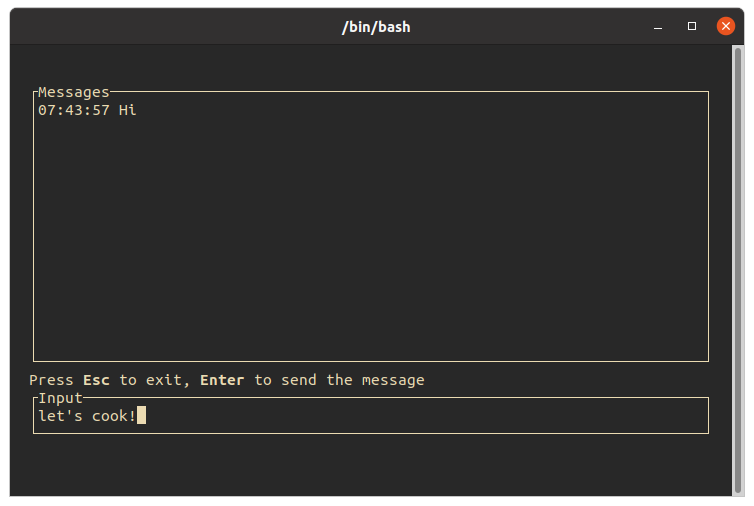
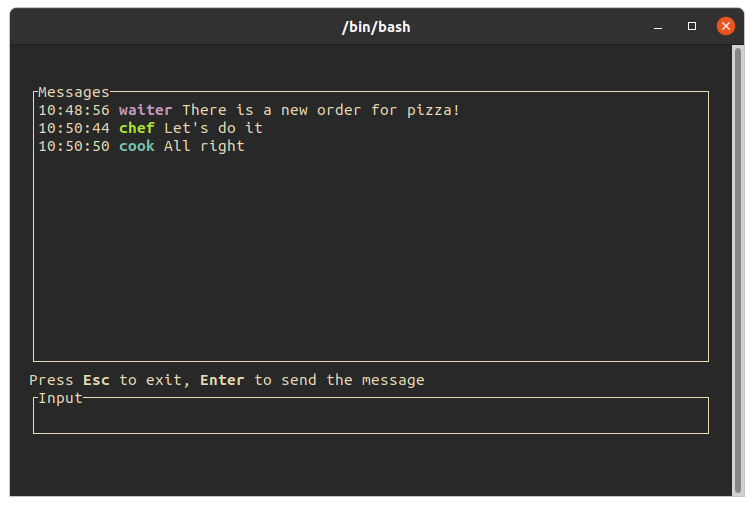
Add user info to message

Changed region(s): [[0.0305, 0.2075, 0.6101, 0.2964], [0.061, 0.8004, 0.2135, 0.83]]

diff --git a/src/app/terminal_events_handler.rs b/src/app/terminal_events_handler.rs
@@ -1,7 +1,10 @@
 use std::sync::{Arc, Mutex};
 
 use crate::{
-    events_publisher::EventsPublisher, network::NetworkEvent, renderer::State, TerminalEvent,
+    events_publisher::EventsPublisher,
+    network::NetworkEvent,
+    renderer::{Message, State},
+    TerminalEvent,
 };
 
 pub struct TerminalEventsHandler<EP>
@@ -35,8 +38,12 @@ where
             TerminalEvent::Accept => {
                 let message = state.input_message.drain(..).collect::<String>();
                 if !message.is_empty() {
+                    let message =
+                        serde_json::to_vec(&Message::new(state.current_user.clone(), message))
+                            .unwrap();
+
                     self.events_publisher
-                        .publish(NetworkEvent::Message(message.as_bytes().to_owned()))
+                        .publish(NetworkEvent::Message(message))
                         .unwrap();
 
                     state.cursor = 0;
@@ -313,21 +320,29 @@ mod tests {
         let init_state = State {
             input_message: "some message".into(),
             cursor: 12,
+            current_user: "Chef".into(),
             ..Default::default()
         };
         let events = vec![TerminalEvent::Accept];
         let expected_state = State {
             input_message: "".into(),
             cursor: 0,
+            current_user: "Chef".into(),
             ..Default::default()
         };
+        let expected_message = Message::new("Chef".into(), "some message".into());
 
         let state = Arc::new(Mutex::new(init_state));
 
         let mut events_publisher_mock = MockEventsPublisher::new();
         events_publisher_mock
             .expect_publish()
-            .with(eq(NetworkEvent::Message("some message".into())))
+            .withf(move |msg| match msg {
+                NetworkEvent::Message(payload) => {
+                    let message: Message = serde_json::from_slice(&payload).unwrap();
+                    message == expected_message
+                }
+            })
             .once()
             .returning(|_| Ok(()));
 

diff --git a/src/app.rs b/src/app.rs
@@ -36,6 +36,7 @@ where
     TE: EventsReader<Message = TerminalEvent> + Send,
 {
     pub async fn new<EP>(
+        user: impl Into<String>,
         mut network_events: NE,
         mut terminal_events: TE,
         renderer: R,
@@ -45,6 +46,7 @@ where
         EP: EventsPublisher<Message = NetworkEvent> + Send + 'static,
     {
         let state = Arc::new(Mutex::new(State::default()));
+        state.lock().unwrap().current_user = user.into();
 
         let ne_handler = NetworkEventsHandler::new(state.clone());
         network_events
@@ -124,6 +126,7 @@ mod should {
         let events_publisher_mock = MockEventsPublisher::new();
 
         let _ = App::new(
+            "user",
             network_events_mock,
             terminal_events_mock,
             renderer_mock,
@@ -149,6 +152,7 @@ mod should {
         let events_publisher_mock = MockEventsPublisher::new();
 
         let _ = App::new(
+            "user",
             network_events_mock,
             terminal_events_mock,
             renderer_mock,
@@ -179,6 +183,7 @@ mod should {
         let events_publisher_mock = MockEventsPublisher::new();
 
         let mut tested_app = App::new(
+            "user",
             network_events_mock,
             terminal_events_mock,
             renderer_mock,
@@ -211,6 +216,7 @@ mod should {
         let events_publisher_mock = MockEventsPublisher::new();
 
         let mut tested_app = App::new(
+            "user",
             network_events_mock,
             terminal_events_mock,
             renderer_mock,
@@ -243,6 +249,7 @@ mod should {
         let events_publisher_mock = MockEventsPublisher::new();
 
         let mut tested_app = App::new(
+            "user",
             network_events_mock,
             terminal_events_mock,
             renderer_mock,
@@ -272,6 +279,7 @@ mod should {
         let events_publisher_mock = MockEventsPublisher::new();
 
         let mut tested_app = App::new(
+            "user",
             network_events_mock,
             terminal_events_mock,
             renderer_mock,

diff --git a/src/app/network_events_handler.rs b/src/app/network_events_handler.rs
@@ -1,9 +1,6 @@
 use std::sync::{Arc, Mutex};
 
-use crate::{
-    network::NetworkEvent,
-    renderer::{Message, State},
-};
+use crate::{network::NetworkEvent, renderer::State};
 
 pub struct NetworkEventsHandler {
     state: Arc<Mutex<State>>,
@@ -14,12 +11,10 @@ impl NetworkEventsHandler {
     }
     pub fn handle(&self, message: NetworkEvent) {
         match message {
-            NetworkEvent::Message(payload) => self
-                .state
-                .lock()
-                .unwrap()
-                .messages
-                .push(Message::new(String::from_utf8(payload).unwrap())),
+            NetworkEvent::Message(payload) => {
+                let message = serde_json::from_slice(&payload).expect("Received invalid message");
+                self.state.lock().unwrap().messages.push(message);
+            }
         }
     }
 }
@@ -28,16 +23,27 @@ impl NetworkEventsHandler {
 mod tests {
     use super::*;
 
+    use crate::renderer::Message;
+
+    use chrono::{DateTime, Local};
     use test_case::test_case;
 
     #[test_case(
         State::default(),
         vec![
-            NetworkEvent::Message("Hi".into())
+            NetworkEvent::Message(r#"{"user":"Chef","msg":"Hi","time":"2021-05-09T09:00:00+02:00"}"#.into())
         ]
         =>
         State {
-            messages: vec![Message::new("Hi".into())],
+            messages: vec![
+                Message {
+                    user: "Chef".into(),
+                    msg: "Hi".into(),
+                    time: DateTime::parse_from_rfc3339("2021-05-09T09:00:00+02:00")
+                        .unwrap()
+                        .with_timezone(&Local),
+                },
+            ],
             ..Default::default()
         }
         ; "simple message")]

diff --git a/src/renderer/ui.rs b/src/renderer/ui.rs
@@ -1,7 +1,10 @@
+use rand::Rng;
+use rand_pcg::Pcg64;
+use rand_seeder::Seeder;
 use tui::{
     backend::Backend,
     layout::{Constraint, Direction, Layout, Rect},
-    style::{Modifier, Style},
+    style::{Color, Modifier, Style},
     text::{Span, Spans, Text},
     widgets::{Block, Borders, Paragraph},
     Frame,
@@ -67,6 +70,13 @@ fn draw_messages_panel(state: &State, frame: &mut Frame<impl Backend>, chunk: Re
         .map(|message| {
             let content = Spans::from(vec![
                 Span::raw(message.time.format("%H:%M:%S ").to_string()),
+                Span::styled(
+                    message.user.clone(),
+                    Style::default()
+                        .fg(get_rbg(&message.user))
+                        .add_modifier(Modifier::BOLD),
+                ),
+                Span::raw(" "),
                 Span::raw(message.msg.clone()),
             ]);
             content
@@ -76,4 +86,11 @@ fn draw_messages_panel(state: &State, frame: &mut Frame<impl Backend>, chunk: Re
     let messages =
         Paragraph::new(messages).block(Block::default().borders(Borders::ALL).title("Messages"));
     frame.render_widget(messages, chunk);
+}
+
+fn get_rbg(data: &str) -> Color {
+    let mut rng: Pcg64 = Seeder::from(data).make_rng();
+    let (r, g, b) = rng.gen();
+
+    Color::Rgb(r, g, b)
 }

diff --git a/src/renderer.rs b/src/renderer.rs
@@ -1,4 +1,4 @@
-mod ui; // TODO: reorganize Renderer/Ui modules
+mod ui;
 
 use anyhow::Result;
 use chrono::{DateTime, Local};
@@ -9,6 +9,7 @@ pub mod terminal_renderer;
 #[derive(Clone, Default, Debug, PartialEq)]
 pub struct State {
     pub quit: bool,
+    pub current_user: String,
     pub input_message: String,
     pub cursor: usize,
     pub messages: Vec<Message>,
@@ -16,15 +17,17 @@ pub struct State {
 
 #[derive(Clone, Debug, Serialize, Deserialize)]
 pub struct Message {
-    pub time: DateTime<Local>,
+    pub user: String,
     pub msg: String,
+    pub time: DateTime<Local>,
 }
 
 impl Message {
-    pub fn new(msg: String) -> Self {
+    pub fn new(user: String, msg: String) -> Self {
         Self {
-            time: Local::now(),
+            user,
             msg,
+            time: Local::now(),
         }
     }
 }
@@ -32,6 +35,7 @@ impl PartialEq for Message {
     fn eq(&self, other: &Self) -> bool {
         self.time.format("%H:%M:%S ").to_string() == other.time.format("%H:%M:%S ").to_string()
             && self.msg == other.msg
+            && self.user == other.user
     }
 }
 

diff --git a/src/main.rs b/src/main.rs
@@ -35,12 +35,25 @@ struct Opt {
 async fn main() -> Result<()> {
     let opt = Opt::from_args();
 
-    let (events_publisher, network_events) =
-        setup_network(opt.server, TOPIC_PREFIX, opt.room, opt.user, &opt.password).await?;
+    let (events_publisher, network_events) = setup_network(
+        opt.server,
+        TOPIC_PREFIX,
+        opt.room,
+        opt.user.clone(),
+        &opt.password,
+    )
+    .await?;
     let terminal_events = CrosstermEventsHandler::new();
     let renderer = TerminalRenderer::new(std::io::stdout())?;
 
-    let mut app = App::new(network_events, terminal_events, renderer, events_publisher).await;
+    let mut app = App::new(
+        opt.user,
+        network_events,
+        terminal_events,
+        renderer,
+        events_publisher,
+    )
+    .await;
 
     app.run().await?;
 

diff --git a/src/network.rs b/src/network.rs
@@ -52,7 +52,6 @@ pub async fn setup_network(
 
     tokio::spawn(async move {
         while let Some(message) = recv.recv().await {
-            // TODO: encrypt
             mqtt_client.publish(message).await.unwrap();
         }
     });
